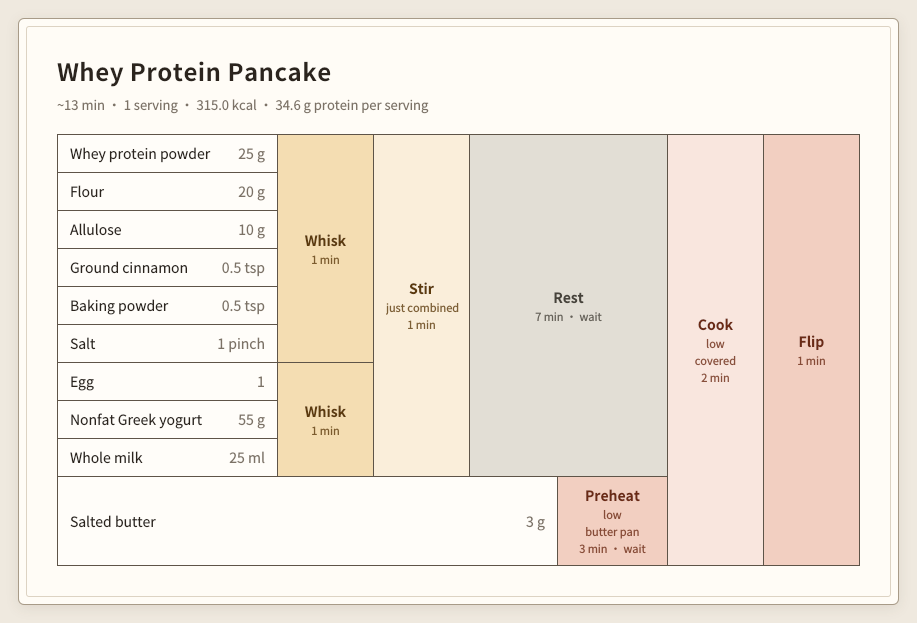
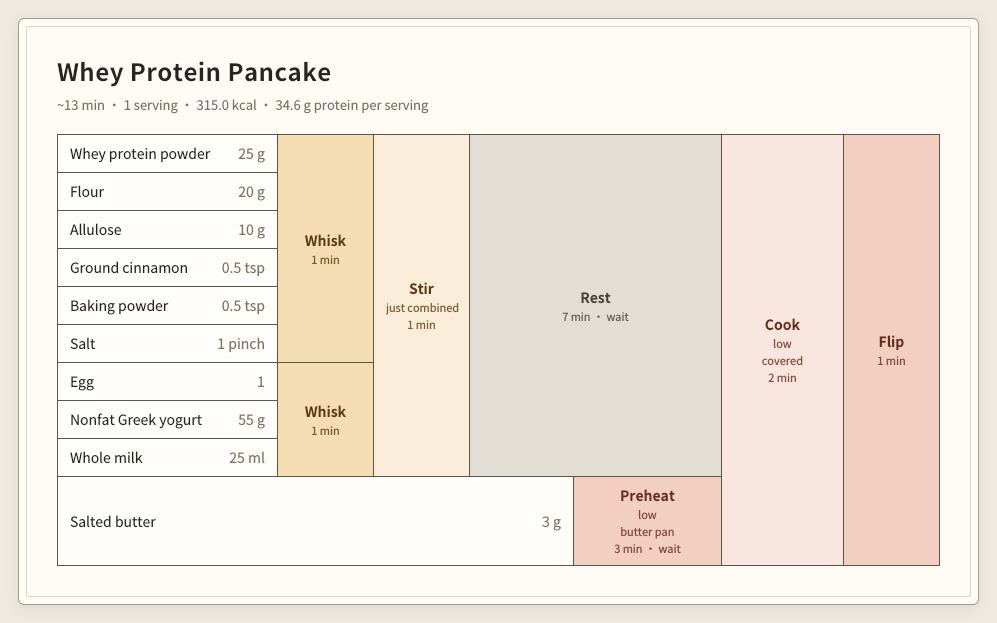
Make step column width grow strictly with duration
The old floor (96 px image, 56 px widget) made 1- and 2-minute steps the
same width. Widths now rise ~26 px per minute in images (~18 px in the
chat widget) and cap only past 7 minutes.

Claude-Session: https://claude.ai/code/session_01DayUDejLxFjg47KXXpKida

diff --git a/skills/recipe-table/scripts/render_recipe.py b/skills/recipe-table/scripts/render_recipe.py
@@ -142,8 +142,8 @@ def layout(scale, ing_px, font):
             left[k] = starts[col[k]] + (n - 1 - idx[STEPS[k].get("min") or 0])
     return widths, left
 
-IMG_SCALE = lambda d: max(96, min(200, 44 + 22 * d))
-WIDGET_SCALE = lambda d: max(56, min(140, 28 + 14 * d))
+IMG_SCALE = lambda d: min(260, 70 + 26 * d)   # strictly grows with minutes up to 7 min
+WIDGET_SCALE = lambda d: min(170, 40 + 18 * d)
 
 def recipe_table(cls_on=True, scale=IMG_SCALE, ing_px=(150, 300), font=14, fixed=True):
     """Ingredient cell: name first, quantity right-aligned. Step cell: verb, then small note and time."""

diff --git a/recipes/breakfast/protein-pancake.md b/recipes/breakfast/protein-pancake.md
@@ -4,7 +4,7 @@
 
 ## 配方表
 
-<table class="cfe"><colgroup><col style="width:155px"><col style="width:96px"><col style="width:96px"><col style="width:88px"><col style="width:110px"><col style="width:96px"><col style="width:96px"></colgroup><tr><td colspan="1">乳清蛋白粉 <b>25 g</b></td><td rowspan="6" colspan="1">拌匀<br><sub>1 min</sub></td><td rowspan="9" colspan="1">拌合<br><sub>无干粉即停</sub><br><sub>1 min</sub></td><td rowspan="9" colspan="2">静置<br><sub>7 min · 等待</sub></td><td rowspan="10" colspan="1">煎<br><sub>小火</sub><br><sub>加盖</sub><br><sub>2 min</sub></td><td rowspan="10" colspan="1">翻面<br><sub>1 min</sub></td></tr><tr><td colspan="1">面粉 <b>20 g</b></td></tr><tr><td colspan="1">阿洛酮糖 <b>10 g</b></td></tr><tr><td colspan="1">肉桂粉 <b>0.5 tsp</b></td></tr><tr><td colspan="1">泡打粉 <b>0.5 tsp</b></td></tr><tr><td colspan="1">盐 <b>1 撮</b></td></tr><tr><td colspan="1">鸡蛋 <b>1 个</b></td><td rowspan="3" colspan="1">搅匀<br><sub>1 min</sub></td></tr><tr><td colspan="1">脱脂希腊酸奶 <b>55 g</b></td></tr><tr><td colspan="1">全脂牛奶 <b>25 ml</b></td></tr><tr><td colspan="4">含盐黄油 <b>3 g</b></td><td rowspan="1" colspan="1">热锅<br><sub>小火</sub><br><sub>抹黄油</sub><br><sub>3 min · 等待</sub></td></tr></table>
+<table class="cfe"><colgroup><col style="width:155px"><col style="width:96px"><col style="width:96px"><col style="width:104px"><col style="width:148px"><col style="width:122px"><col style="width:96px"></colgroup><tr><td colspan="1">乳清蛋白粉 <b>25 g</b></td><td rowspan="6" colspan="1">拌匀<br><sub>1 min</sub></td><td rowspan="9" colspan="1">拌合<br><sub>无干粉即停</sub><br><sub>1 min</sub></td><td rowspan="9" colspan="2">静置<br><sub>7 min · 等待</sub></td><td rowspan="10" colspan="1">煎<br><sub>小火</sub><br><sub>加盖</sub><br><sub>2 min</sub></td><td rowspan="10" colspan="1">翻面<br><sub>1 min</sub></td></tr><tr><td colspan="1">面粉 <b>20 g</b></td></tr><tr><td colspan="1">阿洛酮糖 <b>10 g</b></td></tr><tr><td colspan="1">肉桂粉 <b>0.5 tsp</b></td></tr><tr><td colspan="1">泡打粉 <b>0.5 tsp</b></td></tr><tr><td colspan="1">盐 <b>1 撮</b></td></tr><tr><td colspan="1">鸡蛋 <b>1 个</b></td><td rowspan="3" colspan="1">搅匀<br><sub>1 min</sub></td></tr><tr><td colspan="1">脱脂希腊酸奶 <b>55 g</b></td></tr><tr><td colspan="1">全脂牛奶 <b>25 ml</b></td></tr><tr><td colspan="4">含盐黄油 <b>3 g</b></td><td rowspan="1" colspan="1">热锅<br><sub>小火</sub><br><sub>抹黄油</sub><br><sub>3 min · 等待</sub></td></tr></table>
 
 ## 时间线
 

diff --git a/recipes/breakfast/high-protein-pancake.md b/recipes/breakfast/high-protein-pancake.md
@@ -4,7 +4,7 @@
 
 ## 配方表
 
-<table class="cfe"><colgroup><col style="width:155px"><col style="width:96px"><col style="width:96px"><col style="width:102px"><col style="width:96px"><col style="width:96px"><col style="width:96px"></colgroup><tr><td colspan="1">鸡蛋 <b>1 个</b></td><td rowspan="3" colspan="1">搅匀<br><sub>1 min</sub></td><td rowspan="9" colspan="1">拌合<br><sub>2 min</sub></td><td rowspan="9" colspan="2">静置<br><sub>7 min · 等待</sub></td><td rowspan="10" colspan="1">煎<br><sub>小火加盖</sub><br><sub>2 min</sub></td><td rowspan="10" colspan="1">翻面<br><sub>2 min</sub></td></tr><tr><td colspan="1">脱脂希腊酸奶 <b>30 g</b></td></tr><tr><td colspan="1">全脂牛奶 <b>50 ml</b></td></tr><tr><td colspan="2">乳清蛋白粉 <b>25 g</b></td></tr><tr><td colspan="2">低筋面粉 <b>25 g</b></td></tr><tr><td colspan="2">阿洛酮糖 <b>10 g</b></td></tr><tr><td colspan="2">肉桂粉 <b>0.5 tsp</b></td></tr><tr><td colspan="2">泡打粉 <b>0.5 tsp</b></td></tr><tr><td colspan="2">盐 <b>1 撮</b></td></tr><tr><td colspan="4">含盐黄油 <b>5 g</b></td><td rowspan="1" colspan="1">热锅<br><sub>2 min · 等待</sub></td></tr></table>
+<table class="cfe"><colgroup><col style="width:155px"><col style="width:96px"><col style="width:122px"><col style="width:130px"><col style="width:122px"><col style="width:122px"><col style="width:122px"></colgroup><tr><td colspan="1">鸡蛋 <b>1 个</b></td><td rowspan="3" colspan="1">搅匀<br><sub>1 min</sub></td><td rowspan="9" colspan="1">拌合<br><sub>2 min</sub></td><td rowspan="9" colspan="2">静置<br><sub>7 min · 等待</sub></td><td rowspan="10" colspan="1">煎<br><sub>小火加盖</sub><br><sub>2 min</sub></td><td rowspan="10" colspan="1">翻面<br><sub>2 min</sub></td></tr><tr><td colspan="1">脱脂希腊酸奶 <b>30 g</b></td></tr><tr><td colspan="1">全脂牛奶 <b>50 ml</b></td></tr><tr><td colspan="2">乳清蛋白粉 <b>25 g</b></td></tr><tr><td colspan="2">低筋面粉 <b>25 g</b></td></tr><tr><td colspan="2">阿洛酮糖 <b>10 g</b></td></tr><tr><td colspan="2">肉桂粉 <b>0.5 tsp</b></td></tr><tr><td colspan="2">泡打粉 <b>0.5 tsp</b></td></tr><tr><td colspan="2">盐 <b>1 撮</b></td></tr><tr><td colspan="4">含盐黄油 <b>5 g</b></td><td rowspan="1" colspan="1">热锅<br><sub>2 min · 等待</sub></td></tr></table>
 
 ## 时间线
 

diff --git a/recipes/breakfast/protein-french-toast.md b/recipes/breakfast/protein-french-toast.md
@@ -4,7 +4,7 @@
 
 ## 配方表
 
-<table class="cfe"><colgroup><col style="width:155px"><col style="width:96px"><col style="width:96px"><col style="width:110px"><col style="width:110px"></colgroup><tr><td colspan="1">脱脂希腊酸奶 <b>50 g</b></td><td rowspan="4" colspan="1">搅匀<br><sub>2 min</sub></td><td rowspan="5" colspan="1">浸泡<br><sub>两面</sub><br><sub>2 min · 等待</sub></td><td rowspan="6" colspan="1">煎<br><sub>3 min</sub></td><td rowspan="6" colspan="1">翻面<br><sub>3 min</sub></td></tr><tr><td colspan="1">全脂牛奶 <b>50 ml</b></td></tr><tr><td colspan="1">鸡蛋 <b>3 个</b></td></tr><tr><td colspan="1">阿洛酮糖 <b>20 g</b></td></tr><tr><td colspan="2">高蛋白低碳面包 <b>3 片</b><br><sub>约 125 g</sub></td></tr><tr><td colspan="2">含盐黄油 <b>10 g</b></td><td rowspan="1" colspan="1">热锅<br><sub>中小火</sub><br><sub>化黄油</sub><br><sub>2 min · 等待</sub></td></tr></table>
+<table class="cfe"><colgroup><col style="width:155px"><col style="width:122px"><col style="width:122px"><col style="width:148px"><col style="width:148px"></colgroup><tr><td colspan="1">脱脂希腊酸奶 <b>50 g</b></td><td rowspan="4" colspan="1">搅匀<br><sub>2 min</sub></td><td rowspan="5" colspan="1">浸泡<br><sub>两面</sub><br><sub>2 min · 等待</sub></td><td rowspan="6" colspan="1">煎<br><sub>3 min</sub></td><td rowspan="6" colspan="1">翻面<br><sub>3 min</sub></td></tr><tr><td colspan="1">全脂牛奶 <b>50 ml</b></td></tr><tr><td colspan="1">鸡蛋 <b>3 个</b></td></tr><tr><td colspan="1">阿洛酮糖 <b>20 g</b></td></tr><tr><td colspan="2">高蛋白低碳面包 <b>3 片</b><br><sub>约 125 g</sub></td></tr><tr><td colspan="2">含盐黄油 <b>10 g</b></td><td rowspan="1" colspan="1">热锅<br><sub>中小火</sub><br><sub>化黄油</sub><br><sub>2 min · 等待</sub></td></tr></table>
 
 ## 时间线
 

diff --git a/skills/recipe-table/references/style.md b/skills/recipe-table/references/style.md
@@ -28,6 +28,6 @@
 - 相邻两列同一阶段时一深一浅交替（按列号奇偶），避免两个同色格子贴在一起看不出边界。
 - 每个格子都有深灰实线边框，不能只靠颜色区分格子。
 - 材料列宽度按最长的名称 + 用量来定（有上限），名称一般不换行；步骤格只放一个动词，提示放在小字里，每段一行。
-- 步骤列宽大致和时长成比例（有上下限）。同一列里有更短的步骤时（比如 7 分钟静置下面的 3 分钟热锅），这一列会拆成靠右对齐的小列，短的那格画得更窄，它左边的材料格拉长去接，读起来像时间线。
+- 步骤列宽随时长单调增加，不要求成正比，但时长长的一定更宽（2 分钟比 1 分钟宽），7 分钟以上才封顶。同一列里有更短的步骤时（比如 7 分钟静置下面的 3 分钟热锅），这一列会拆成靠右对齐的小列，短的那格画得更窄，它左边的材料格拉长去接，读起来像时间线。
 - 只要配方表的图片（`--table-png`）：只留标题和下面那行摘要，其他文字（分节标题、时间线、营养表）都不要。中文、英文各一张。
 - 生成方式：脚本先拼出 HTML，再用 wkhtmltoimage（老版 WebKit）截图成 PNG，2 倍分辨率。它不支持 CSS 变量、grid、flex，布局用表格、inline-block 和绝对定位。渲染后按卡片外留白裁掉多余画布。
